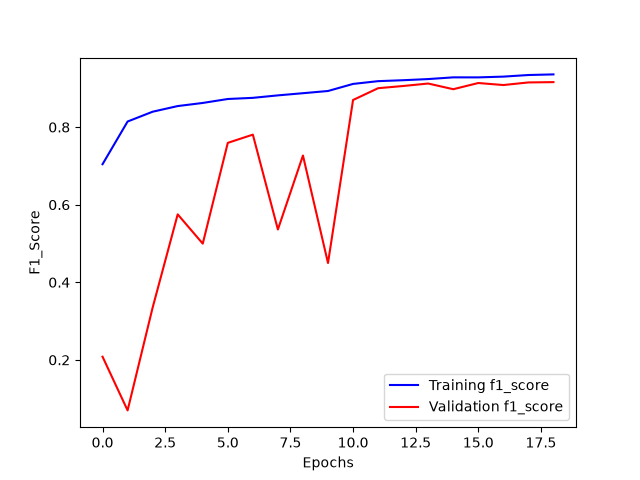
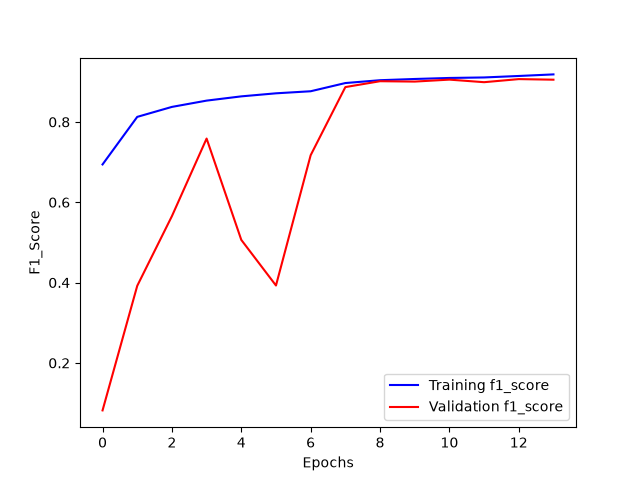
cnn128

diff --git a/models/cnn128/cnn_128.py b/models/cnn128/cnn_128.py
@@ -1,0 +1,280 @@
+# %%
+# Pour la manipulation de tableaux
+import numpy as np
+
+# Imports nécessaires pour construire un modèle CNN avec l'API fonctionnelle de Keras
+from tensorflow.keras.layers import Input, Dense
+from tensorflow.keras.models import Model,load_model
+from tensorflow.keras.layers import Dropout 
+from tensorflow.keras.layers import Flatten
+from tensorflow.keras.layers import Conv2D 
+from tensorflow.keras.layers import MaxPooling2D
+from tensorflow.keras.layers import Rescaling
+from tensorflow.keras.layers import BatchNormalization,GlobalAveragePooling2D
+from tensorflow.keras.preprocessing import image_dataset_from_directory
+from tensorflow.keras.regularizers import l2
+from sklearn.metrics import f1_score, accuracy_score, classification_report
+from sklearn.utils.class_weight import compute_class_weight
+
+# Pour encoder les labels
+from tensorflow.keras.utils import to_categorical 
+
+# Pour évaluer les performances 
+from sklearn import metrics
+
+# Pour visualiser les performances
+import matplotlib.pyplot as plt
+from matplotlib import cm
+import seaborn as sns
+import keras
+
+
+
+# %%
+import tensorflow as tf
+tf.config.list_physical_devices('GPU')
+
+# %%
+train_ds = image_dataset_from_directory(
+    directory="../../../COVID-19_Radiography_Dataset_split/train_augmented/",                                 
+    image_size=(299, 299),
+    batch_size = 32,
+    labels="inferred",
+    shuffle=True,
+    seed=42,
+    color_mode='grayscale'
+    
+)
+
+# %%
+train_ds_not_augmented = image_dataset_from_directory(
+    directory="../../../COVID-19_Radiography_Dataset_split/train/",                                 
+    image_size=(299, 299),
+    batch_size = 32,
+    labels="inferred",
+    shuffle=True,
+    seed = 42,
+    color_mode='grayscale'
+)
+
+
+
+# %%
+val_ds = image_dataset_from_directory(
+    directory="../../../COVID-19_Radiography_Dataset_split/validation/",                                 
+    image_size=(299, 299),
+    batch_size = 32,
+    labels="inferred",
+    seed = 42,
+    shuffle=True,
+    color_mode='grayscale'
+)
+
+
+
+# %%
+test_ds = image_dataset_from_directory(
+    directory="../../../COVID-19_Radiography_Dataset_split/test/",                                 
+    image_size=(299, 299),
+    batch_size = 32,
+    labels="inferred",
+    seed = 42,
+    shuffle=True,
+    color_mode='grayscale'
+)
+
+# à calculer sur les labels du train 
+y_train_not_augmented = np.concatenate([labels for images, labels in train_ds_not_augmented], axis=0)
+class_weights = compute_class_weight('balanced', classes=np.unique(y_train_not_augmented), y=y_train_not_augmented)
+class_weight_dict = dict(enumerate(class_weights))
+
+
+# %%
+from tensorflow.keras.callbacks import Callback
+from timeit import default_timer as timer
+
+class TimingCallback(Callback):
+    def __init__(self, logs={}):
+        self.logs=[]
+    def on_epoch_begin(self, epoch, logs={}):
+        self.starttime = timer()
+    def on_epoch_end(self, epoch, logs={}):
+        self.logs.append(timer()-self.starttime)
+
+@keras.saving.register_keras_serializable()
+class SparseF1Score(tf.keras.metrics.F1Score):
+    """F1Score de Keras adaptée aux labels sparses (entiers) plutôt que one-hot."""
+    def __init__(self, num_classes, **kwargs):
+        super().__init__(**kwargs)
+        self.num_classes_ = num_classes
+
+    def update_state(self, y_true, y_pred, sample_weight=None):
+        y_true = tf.one_hot(tf.cast(tf.reshape(y_true, [-1]), tf.int32), depth=self.num_classes_)
+        return super().update_state(y_true, y_pred, sample_weight)
+
+# %%
+from tensorflow.keras.callbacks import ReduceLROnPlateau, EarlyStopping
+
+early_stopping = EarlyStopping(
+    patience=5,
+    min_delta=0.01,
+    verbose=1,
+    mode='max',
+    monitor='val_f1_score')
+
+reduce_learning_rate = ReduceLROnPlateau(
+                                    monitor="val_f1_score",
+                                    patience=3, # si val_f1_score stagne sur 3 epochs consécutives selon la valeur min_delta
+                                    min_delta=0.01,
+                                    factor=0.1,  # On réduit le learning rate d'un facteur 0.1
+                                    cooldown=4,  # On attend 4 epochs avant de réitérer 
+                                    mode='max',
+                                    verbose=1)
+
+time_callback = TimingCallback()
+
+# %%
+# Instanciation des couches
+inputs = Input(shape=(299, 299, 1), name="Input")
+
+normalization_layer=Rescaling(1./255)
+
+#layer 1 à 3
+layer1 = Conv2D(
+    filters=32,
+    kernel_size=(3, 3),
+    padding='same',
+    activation='relu',
+    name='conv_layer1',
+    #kernel_regularizer=l2(1e-4)
+)
+
+layer2=BatchNormalization(name="BatchNormalization1")
+
+layer3 = MaxPooling2D(
+    pool_size=(2, 2),
+    name='max_pooling_layer1'
+)
+#layer 4 à 6
+layer4 = Conv2D(
+    filters=64,
+    kernel_size=(3, 3),
+    padding='same',
+    activation='relu',
+    name='conv_layer2',
+    #kernel_regularizer=l2(1e-4)
+)
+
+layer5=BatchNormalization(name="BatchNormalization2")
+
+layer6 = MaxPooling2D(
+    pool_size=(2, 2),
+    name='max_pooling_layer2'
+)
+
+#layer 7 à 9
+layer7 = Conv2D(
+    filters=128,
+    kernel_size=(3, 3),
+    padding='same',
+    activation='relu',
+    name='conv_layer3',
+    #kernel_regularizer=l2(1e-4)
+)
+
+layer8=BatchNormalization(name="BatchNormalization3")
+
+layer9 = MaxPooling2D(
+    pool_size=(2, 2),
+    name='max_pooling_layer3'
+)
+
+#layer 10 à 13 (tête de classification)
+layer10 = GlobalAveragePooling2D()
+layer11 = Dropout(rate=0.3)
+
+layer12 = Dense(
+    units=128,
+    activation='relu',
+    name='dense_hidden_layer'
+)
+
+layer13 = Dropout(rate=0.3)
+
+output_layer = Dense(
+    units=4,
+    activation='softmax',
+    name='output_layer'
+)
+
+
+# %%
+# Utilisation des couches
+x= normalization_layer(inputs)
+x = layer1(x)
+x = layer2(x)
+x = layer3(x)
+x = layer4(x)
+x = layer5(x)
+x = layer6(x)
+x = layer7(x)
+x = layer8(x)
+x = layer9(x)
+x = layer10(x)
+x = layer11(x)
+x = layer12(x)
+x = layer13(x)
+
+
+# Création du modèle
+outputs = output_layer(x)
+model = Model(inputs=inputs, outputs=outputs)
+
+# %%
+
+
+model.compile(loss='sparse_categorical_crossentropy', # fonction de perte
+              optimizer='adam',                # algorithme d'optimisation
+              metrics=[SparseF1Score(num_classes=4, average='macro', name='f1_score')])            # métrique d'évaluation
+
+model_history = model.fit(train_ds,
+                          validation_data=val_ds,
+                          epochs=50,
+                          callbacks = [reduce_learning_rate,
+                                       early_stopping,
+                                       time_callback],
+                          #class_weight=class_weight_dict,  # <-- ajouté             
+                          shuffle=False) 
+
+model.save('cnn_128.keras')
+
+
+
+
+# %%
+# Labels des axes
+plt.xlabel('Epochs')
+plt.ylabel('F1_Score')
+
+# Courbe de la précision sur l'échantillon d'entrainement
+plt.plot(
+         model_history.history['f1_score'],
+         label='Training f1_score',
+         color='blue')
+
+# Courbe de la précision sur l'échantillon de test
+plt.plot(
+         model_history.history['val_f1_score'], 
+         label='Validation f1_score',
+         color='red')
+
+# Affichage de la légende
+plt.legend()
+
+
+
+plt.savefig('cnn_128.png')
+np.save('cnn_128.npy',model_history.history)
+
+# Affichage de la figure
+plt.show()
